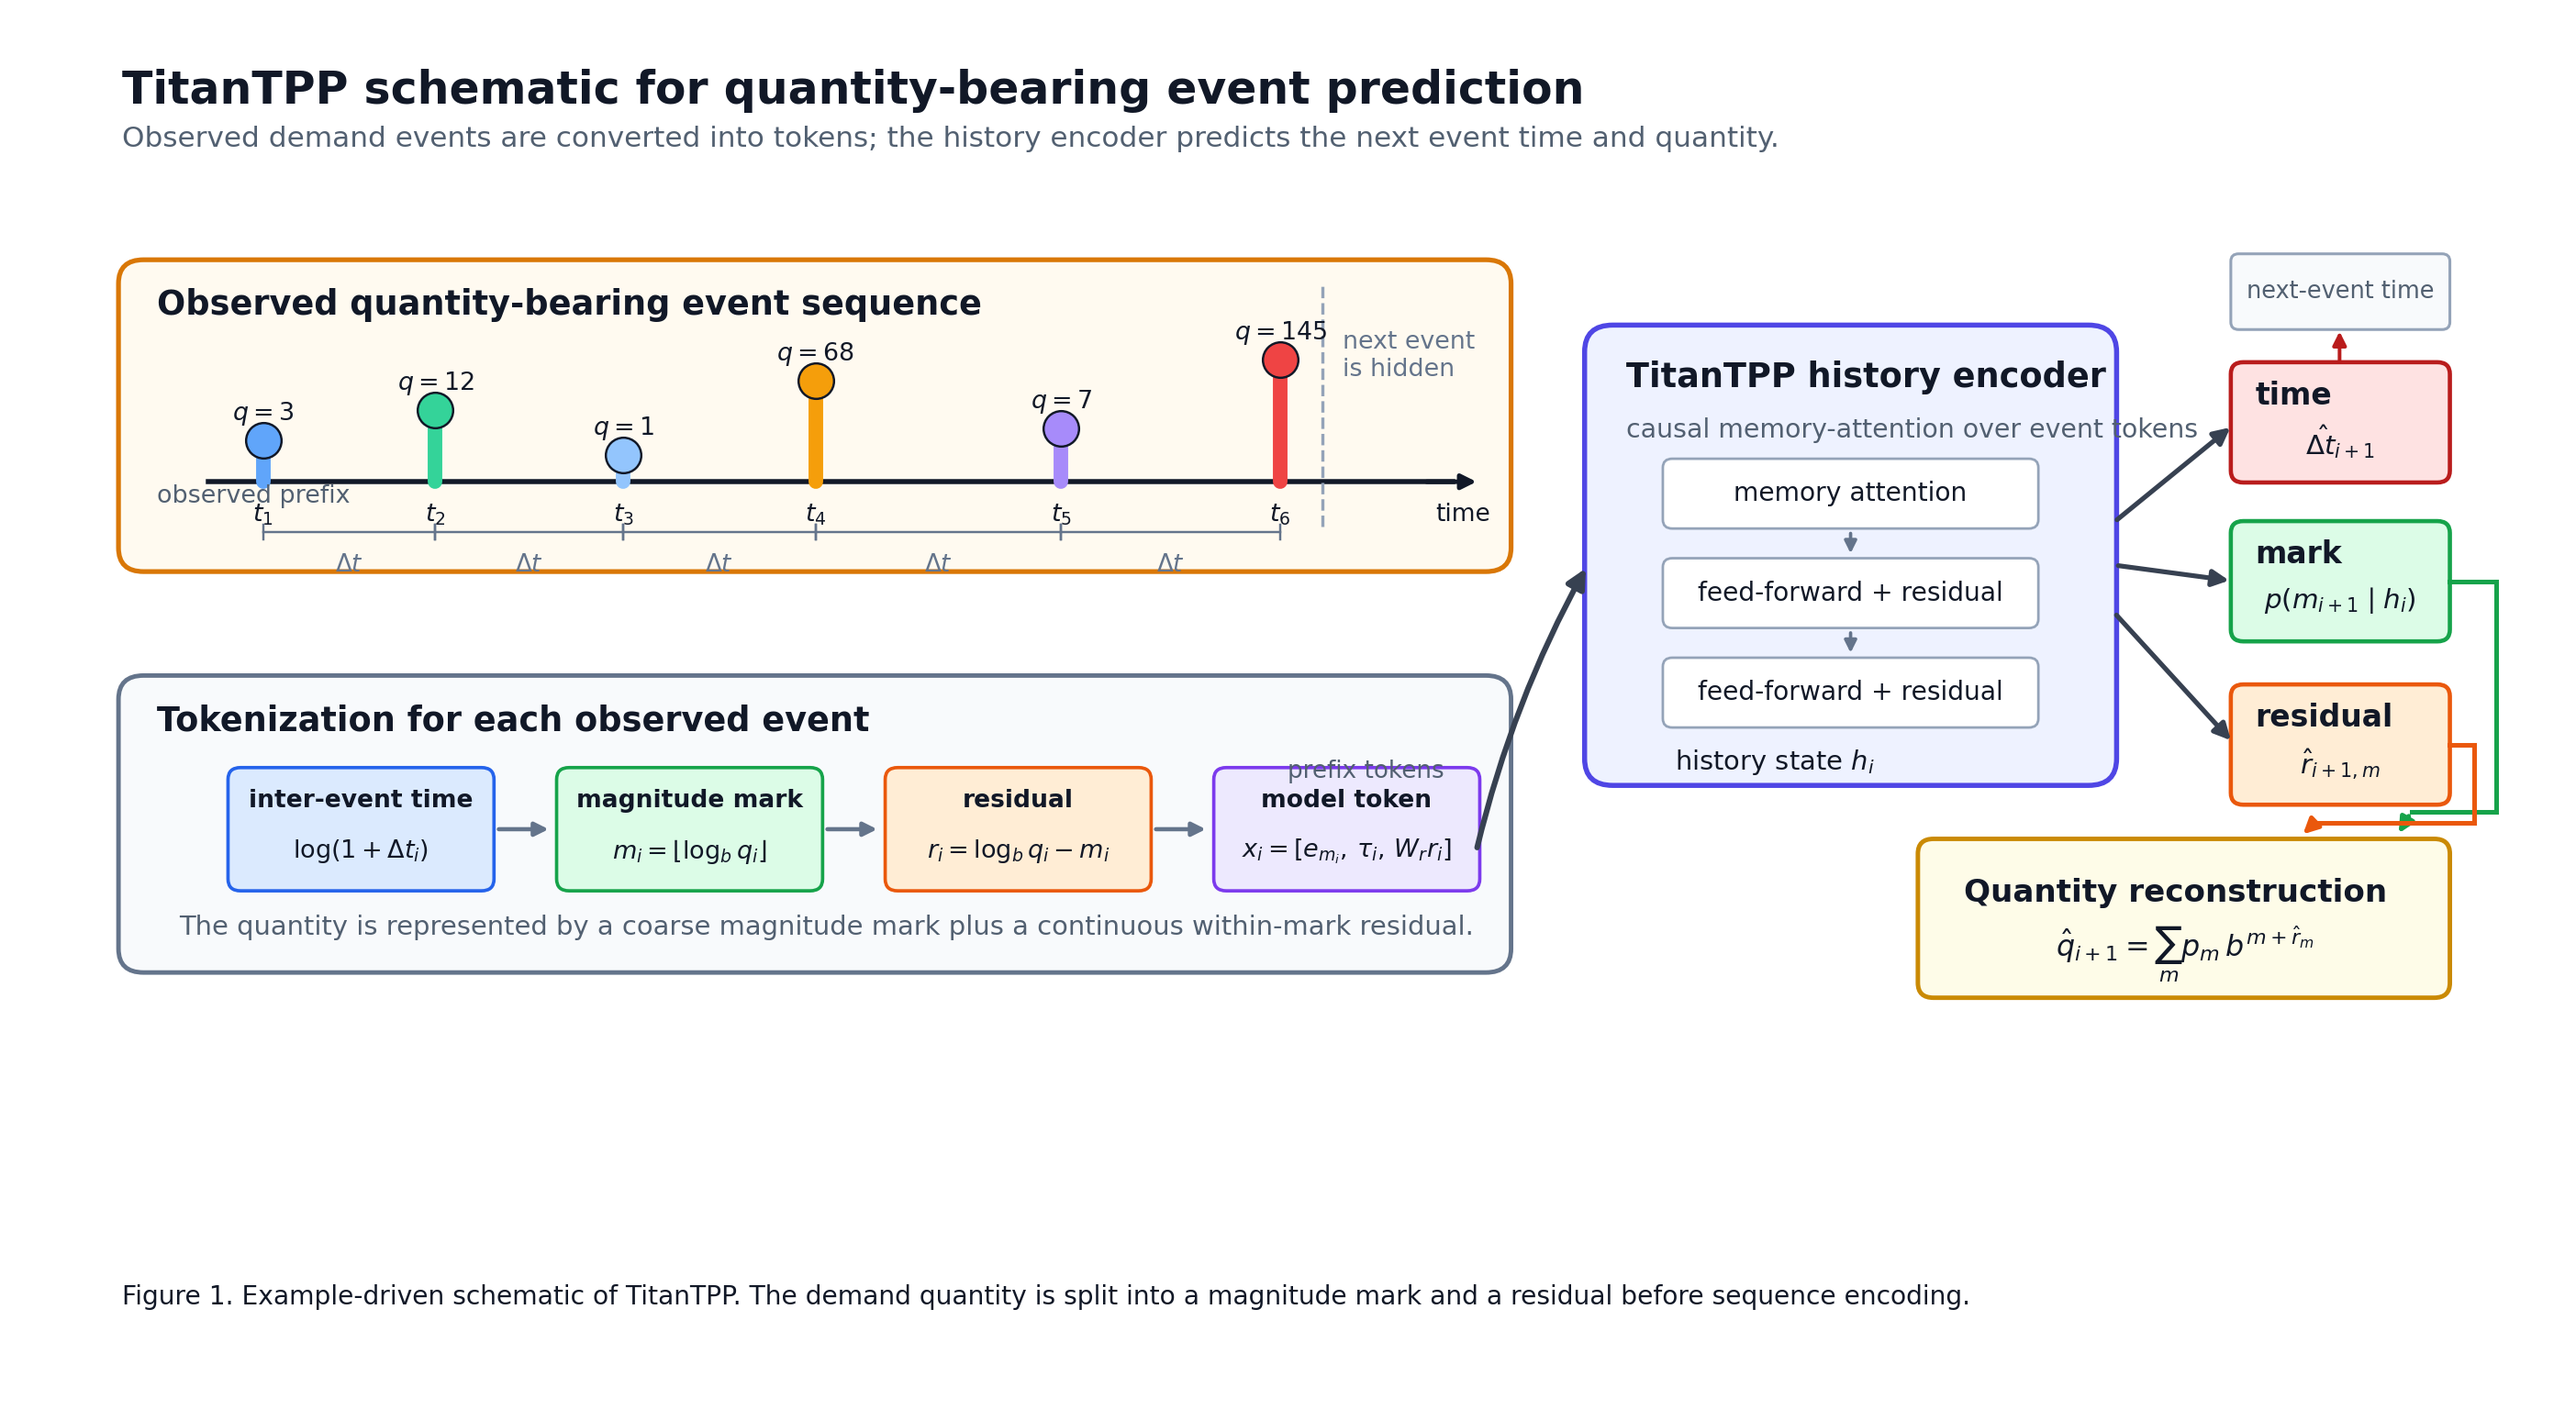
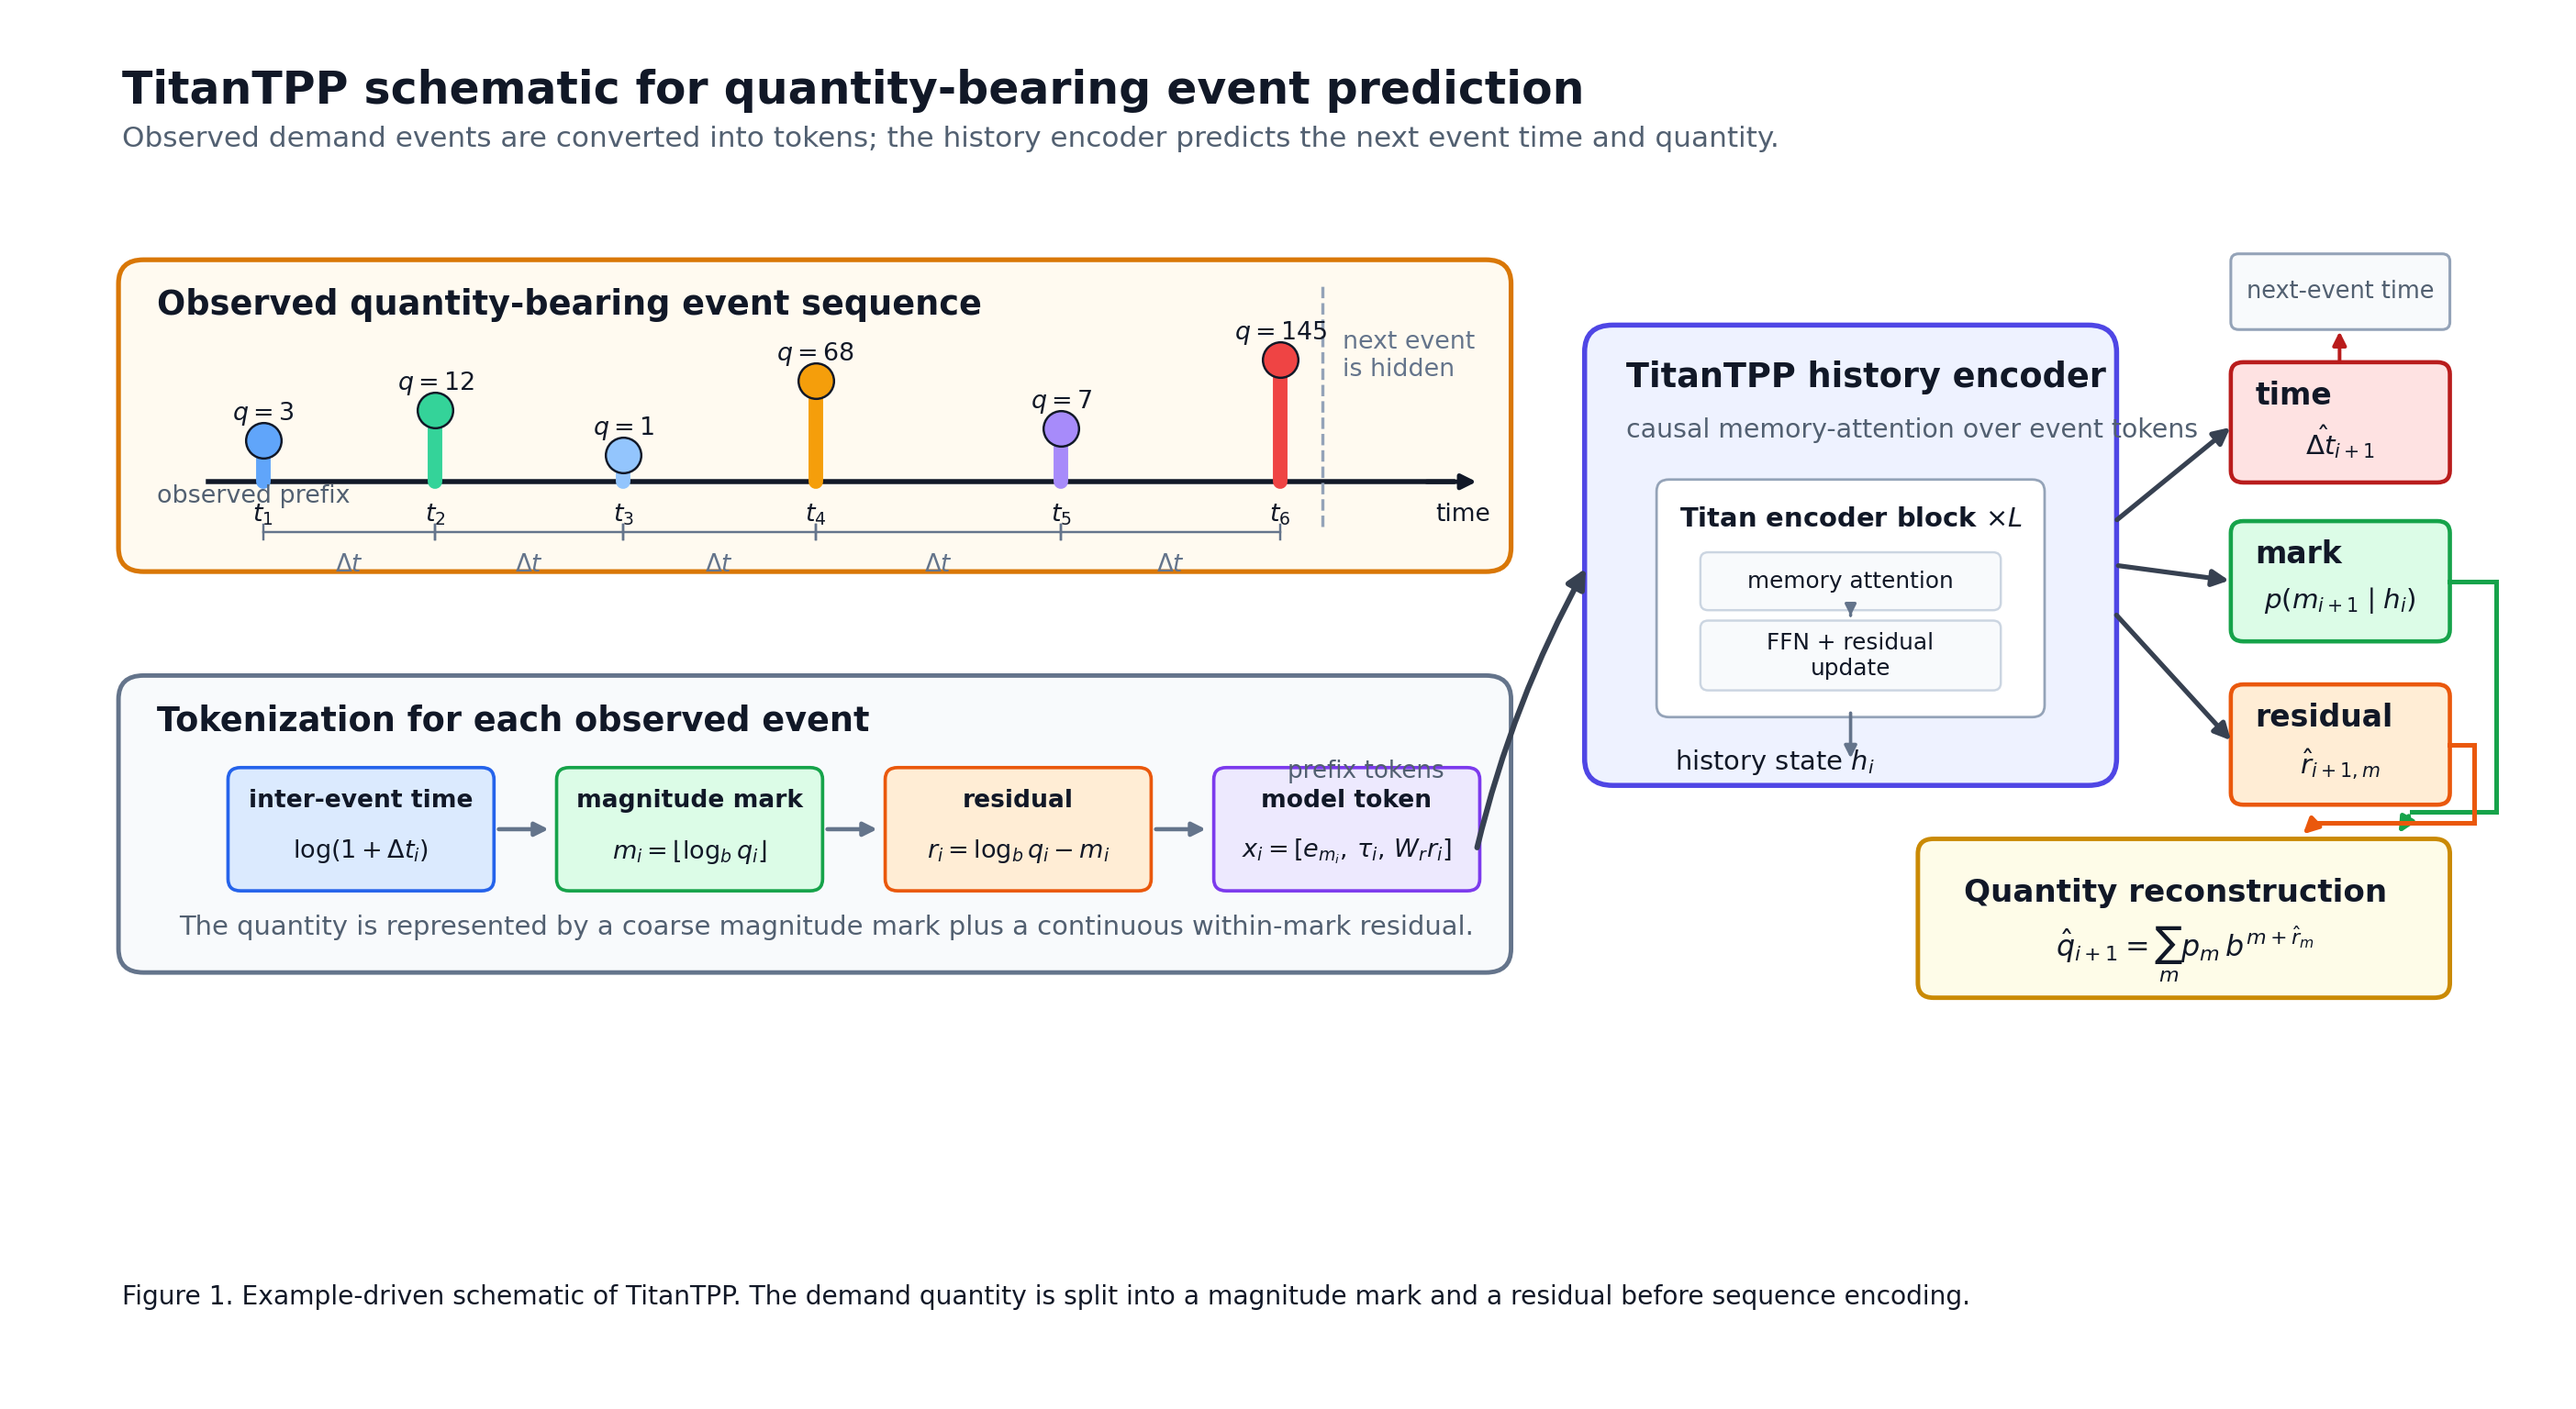
fig: clarify titantpp encoder block flow

Changed region(s): [[0.6509, 0.3125, 0.8058, 0.5312]]

diff --git a/paper/scripts/build_titantpp_event_sequence_figure.py b/paper/scripts/build_titantpp_event_sequence_figure.py
@@ -199,23 +199,33 @@ def draw_encoder(ax):
     label(ax, x0 + 0.24, y0 + h - 0.33, "TitanTPP history encoder", size=12, weight="bold")
     label(ax, x0 + 0.24, y0 + h - 0.68, "causal memory-attention over event tokens", size=9.3, color=COLORS["muted"])
 
-    layers = [
-        (x0 + 0.5, y0 + 1.73, w - 1.0, 0.42, "memory attention"),
-        (x0 + 0.5, y0 + 1.06, w - 1.0, 0.42, "feed-forward + residual"),
-        (x0 + 0.5, y0 + 0.39, w - 1.0, 0.42, "feed-forward + residual"),
+    block_x, block_y, block_w, block_h = x0 + 0.46, y0 + 0.46, w - 0.92, 1.55
+    add_panel(ax, block_x, block_y, block_w, block_h, fc="#ffffff", ec="#94a3b8", lw=0.9, radius=0.08)
+    label(ax, block_x + block_w / 2, block_y + block_h - 0.24, r"Titan encoder block $\times L$", size=9.5, weight="bold", ha="center")
+
+    sublayers = [
+        (block_x + 0.28, block_y + 0.72, block_w - 0.56, 0.34, "memory attention"),
+        (block_x + 0.28, block_y + 0.18, block_w - 0.56, 0.42, "FFN + residual\nupdate"),
     ]
-    for x, y, bw, bh, txt in layers:
-        add_panel(ax, x, y, bw, bh, fc="#ffffff", ec="#94a3b8", lw=0.9, radius=0.06)
-        center_label(ax, x, y, bw, bh, txt, size=9.2)
-    for upper, lower in zip(layers[:-1], layers[1:]):
-        add_arrow(
-            ax,
-            (upper[0] + upper[2] / 2, upper[1] - 0.02),
-            (lower[0] + lower[2] / 2, lower[1] + lower[3] + 0.02),
-            color=COLORS["slate"],
-            lw=1.2,
-            mutation_scale=9,
-        )
+    for sx, sy, sw, sh, txt in sublayers:
+        add_panel(ax, sx, sy, sw, sh, fc="#f8fafc", ec="#cbd5e1", lw=0.8, radius=0.05)
+        center_label(ax, sx, sy, sw, sh, txt, size=8.1)
+    add_arrow(
+        ax,
+        (block_x + block_w / 2, sublayers[0][1] - 0.02),
+        (block_x + block_w / 2, sublayers[1][1] + sublayers[1][3] + 0.02),
+        color=COLORS["slate"],
+        lw=1.1,
+        mutation_scale=8,
+    )
+    add_arrow(
+        ax,
+        (block_x + block_w / 2, block_y + 0.04),
+        (block_x + block_w / 2, block_y - 0.34),
+        color=COLORS["slate"],
+        lw=1.2,
+        mutation_scale=9,
+    )
     label(ax, x0 + 0.55, y0 + 0.13, r"history state $h_i$", size=9.5)
 
     add_arrow(ax, (9.2, 3.5), (9.92, 5.45), color=COLORS["line"], lw=2.0, rad=-0.07, mutation_scale=14)
